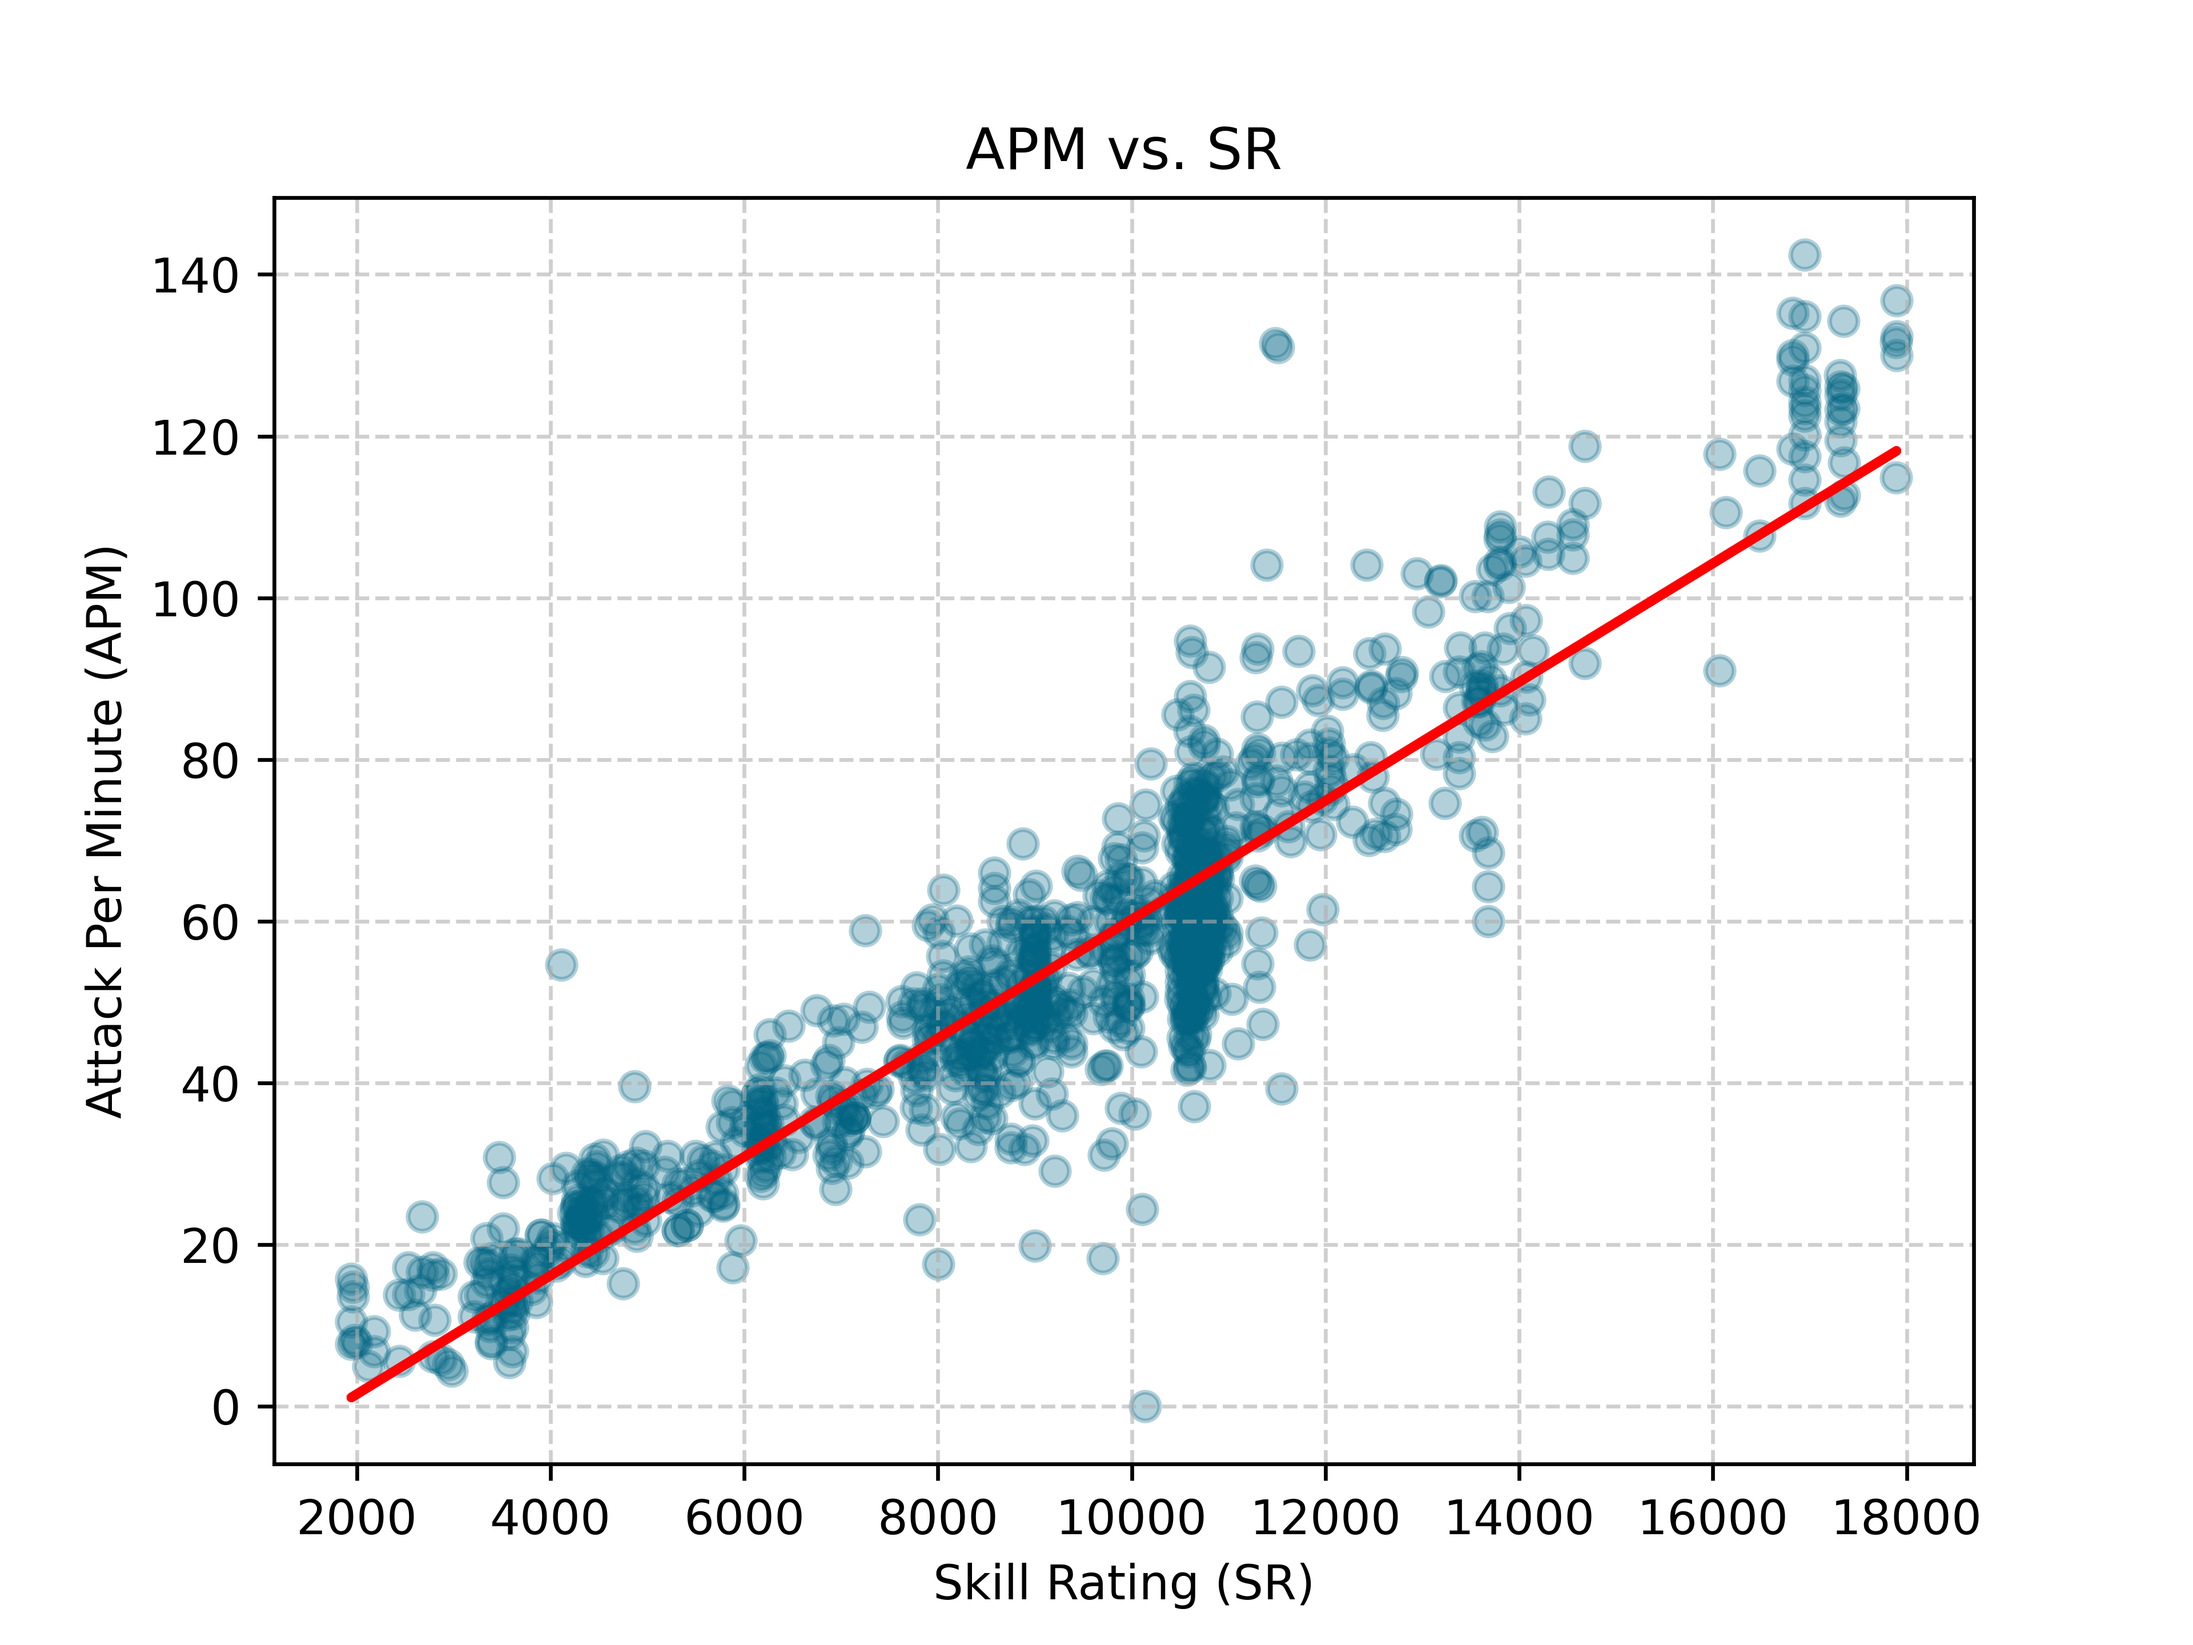
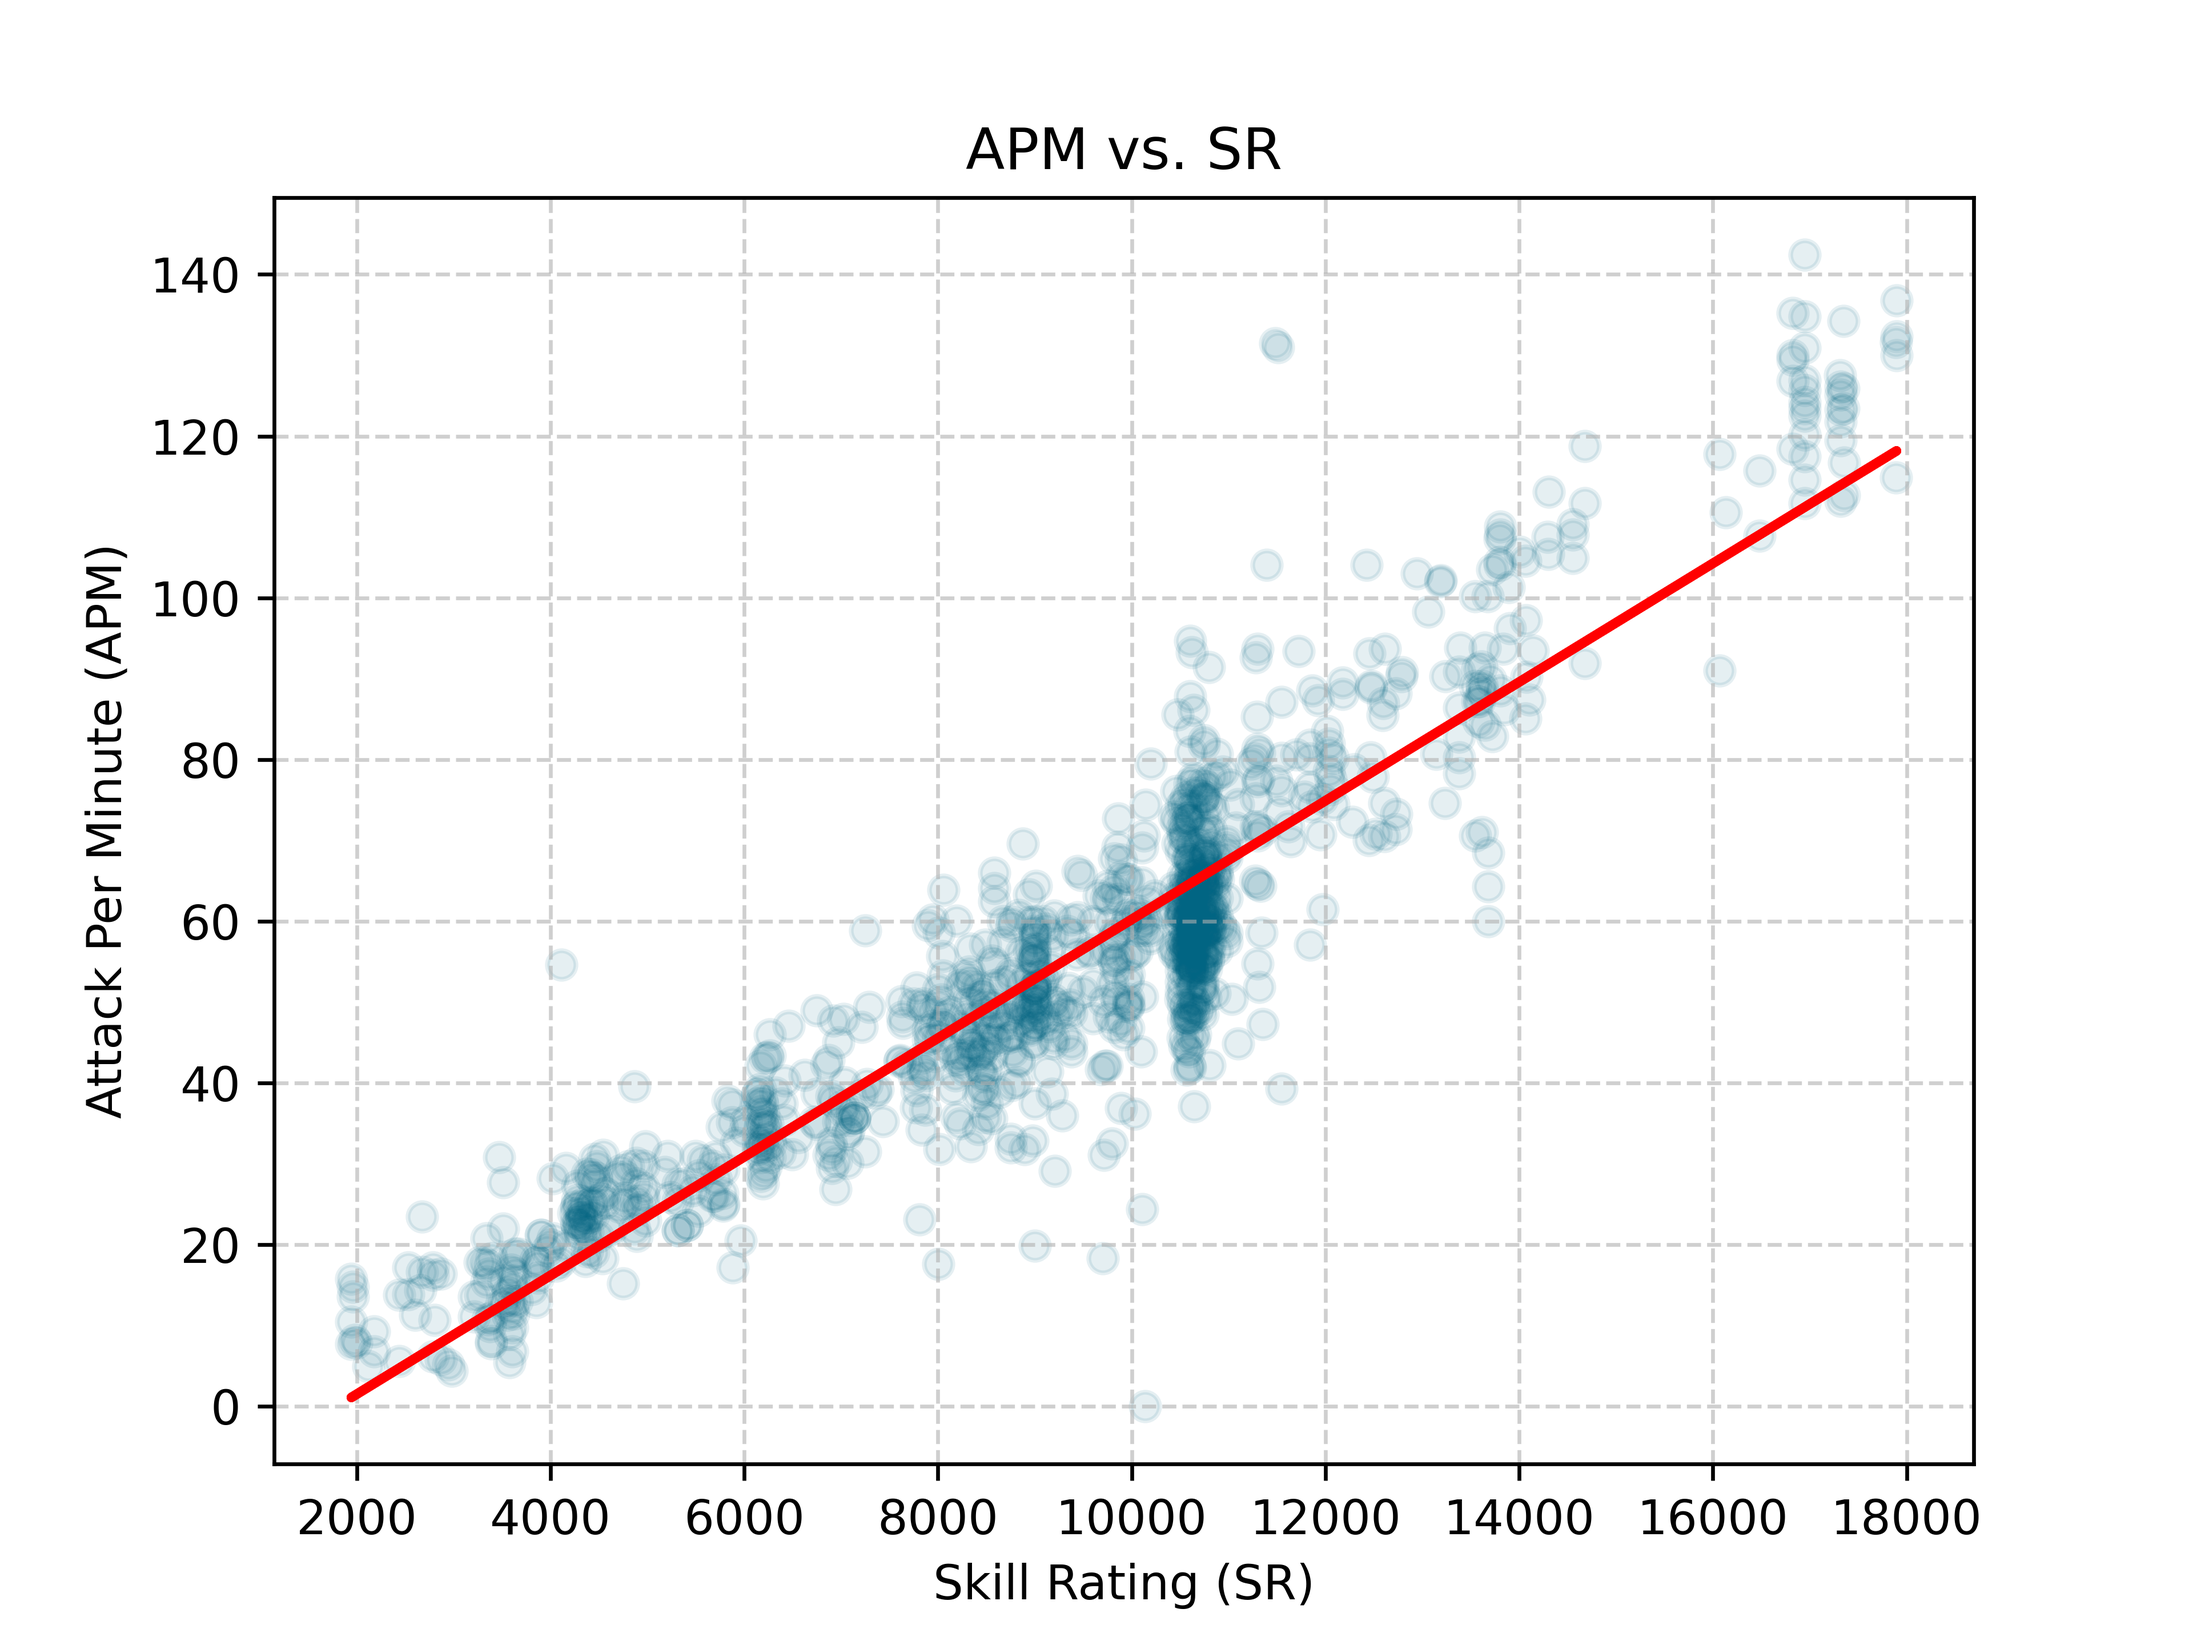
minor modifications to graphs and more organization

diff --git a/graph.py b/graph.py
@@ -32,7 +32,7 @@ print("Creating DPM graph...")
 fig, ax = plt.subplots(1, 1)
 
 # make dpm graph
-ax.scatter(df["SR"], df["DPM"], color="#FF5733", alpha=0.3)
+ax.scatter(df["SR"], df["DPM"], color="#FF5733", alpha=0.1)
 ax.set_title("DPM vs. SR", fontsize=12)
 ax.set_xlabel("Skill Rating (SR)")
 ax.set_ylabel("Drops Per Minute (DPM)")
@@ -52,7 +52,7 @@ print("Creating APM graph...")
 fig, ax = plt.subplots(1, 1)
 
 # make apm graph
-ax.scatter(df["SR"], df["APM"], color="#016583", alpha=0.3)
+ax.scatter(df["SR"], df["APM"], color="#016583", alpha=0.1)
 ax.set_title("APM vs. SR", fontsize=12)
 ax.set_xlabel("Skill Rating (SR)")
 ax.set_ylabel("Attack Per Minute (APM)")
@@ -74,7 +74,7 @@ print("Creating APP graph...")
 fig, ax = plt.subplots(1, 1)
 
 # make app graph 
-ax.scatter(df["SR"], df["APP"], color="#83016B", alpha=0.3)
+ax.scatter(df["SR"], df["APP"], color="#83016B", alpha=0.1)
 ax.set_title("APP vs. SR", fontsize=12)
 ax.set_xlabel("Skill Rating (SR)")
 ax.set_ylabel("Attack Per Piece (APP)")
